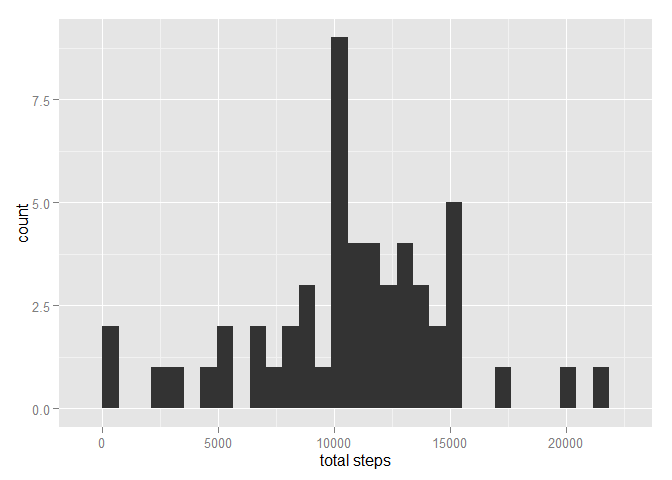
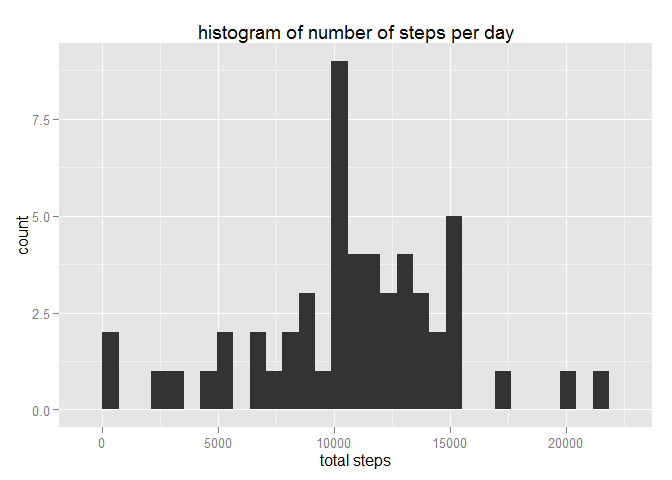
Solve part 2

diff --git a/PA1_template.html b/PA1_template.html
@@ -91,9 +91,10 @@ g</code></pre>
 <p>and here is the histogram:</p>
 <pre class="r"><code>g &lt;- ggplot(nStepsPerDay, aes(`total steps`))
 g &lt;- g + geom_histogram()
+g &lt;- g + ggtitle(&quot;histogram of number of steps per day&quot;)
 g</code></pre>
 <pre><code>## stat_bin: binwidth defaulted to range/30. Use 'binwidth = x' to adjust this.</code></pre>
[2 lines of base64/hex data omitted]
 <p>the mean is:</p>
 <pre class="r"><code>mean(nStepsPerDay$`total steps`, na.rm = T)</code></pre>
 <pre><code>## [1] 10766.19</code></pre>
@@ -103,6 +104,18 @@ g</code></pre>
 </div>
 <div id="what-is-the-average-daily-activity-pattern" class="section level2">
 <h2>What is the average daily activity pattern?</h2>
+<p>Because we are interested in plotting a time series, it seems like a better idea to have a rough value rather than none, so we filter out <code>NA</code> values. We get the mean number of steps per 5-minute time period.</p>
+<pre class="r"><code>nStepsPerTimeInterval &lt;- aggregate(activity$steps, list(activity$interval), mean, na.rm=T)
+names(nStepsPerTimeInterval) &lt;- c(&quot;interval&quot;, &quot;average steps&quot;)</code></pre>
+<p>here the time series of mean steps per time interval:</p>
+<pre class="r"><code>g &lt;- ggplot(nStepsPerTimeInterval, aes(x=interval, y = `average steps`))
+g &lt;- g + geom_line()
+g &lt;- g + ggtitle(&quot;average number of steps per time interval&quot;)
+g</code></pre>
[1 lines of base64/hex data omitted]
+<p>the interval with the most steps in average is:</p>
+<pre class="r"><code>nStepsPerTimeInterval[which.max(nStepsPerTimeInterval$`average steps`), &quot;interval&quot;]</code></pre>
+<pre><code>## [1] 835</code></pre>
 </div>
 <div id="imputing-missing-values" class="section level2">
 <h2>Imputing missing values</h2>

diff --git a/PA1_template.md b/PA1_template.md
@@ -56,6 +56,7 @@ and here is the histogram:
 ```r
 g <- ggplot(nStepsPerDay, aes(`total steps`))
 g <- g + geom_histogram()
+g <- g + ggtitle("histogram of number of steps per day")
 g
 ```
 
@@ -87,7 +88,33 @@ median(nStepsPerDay$`total steps`, na.rm = T)
 
 
 ## What is the average daily activity pattern?
+Because we are interested in plotting a time series, it seems like a better idea to have a rough value rather than none, so we filter out `NA` values. We get the mean number of steps per 5-minute time period. 
 
+```r
+nStepsPerTimeInterval <- aggregate(activity$steps, list(activity$interval), mean, na.rm=T)
+names(nStepsPerTimeInterval) <- c("interval", "average steps")
+```
+
+here the time series of mean steps per time interval:
+
+```r
+g <- ggplot(nStepsPerTimeInterval, aes(x=interval, y = `average steps`))
+g <- g + geom_line()
+g <- g + ggtitle("average number of steps per time interval")
+g
+```
+
+![](PA1_template_files/figure-html/unnamed-chunk-10-1.png) 
+
+the interval with the most steps in average is:
+
+```r
+nStepsPerTimeInterval[which.max(nStepsPerTimeInterval$`average steps`), "interval"]
+```
+
+```
+## [1] 835
+```
 
 
 ## Imputing missing values
